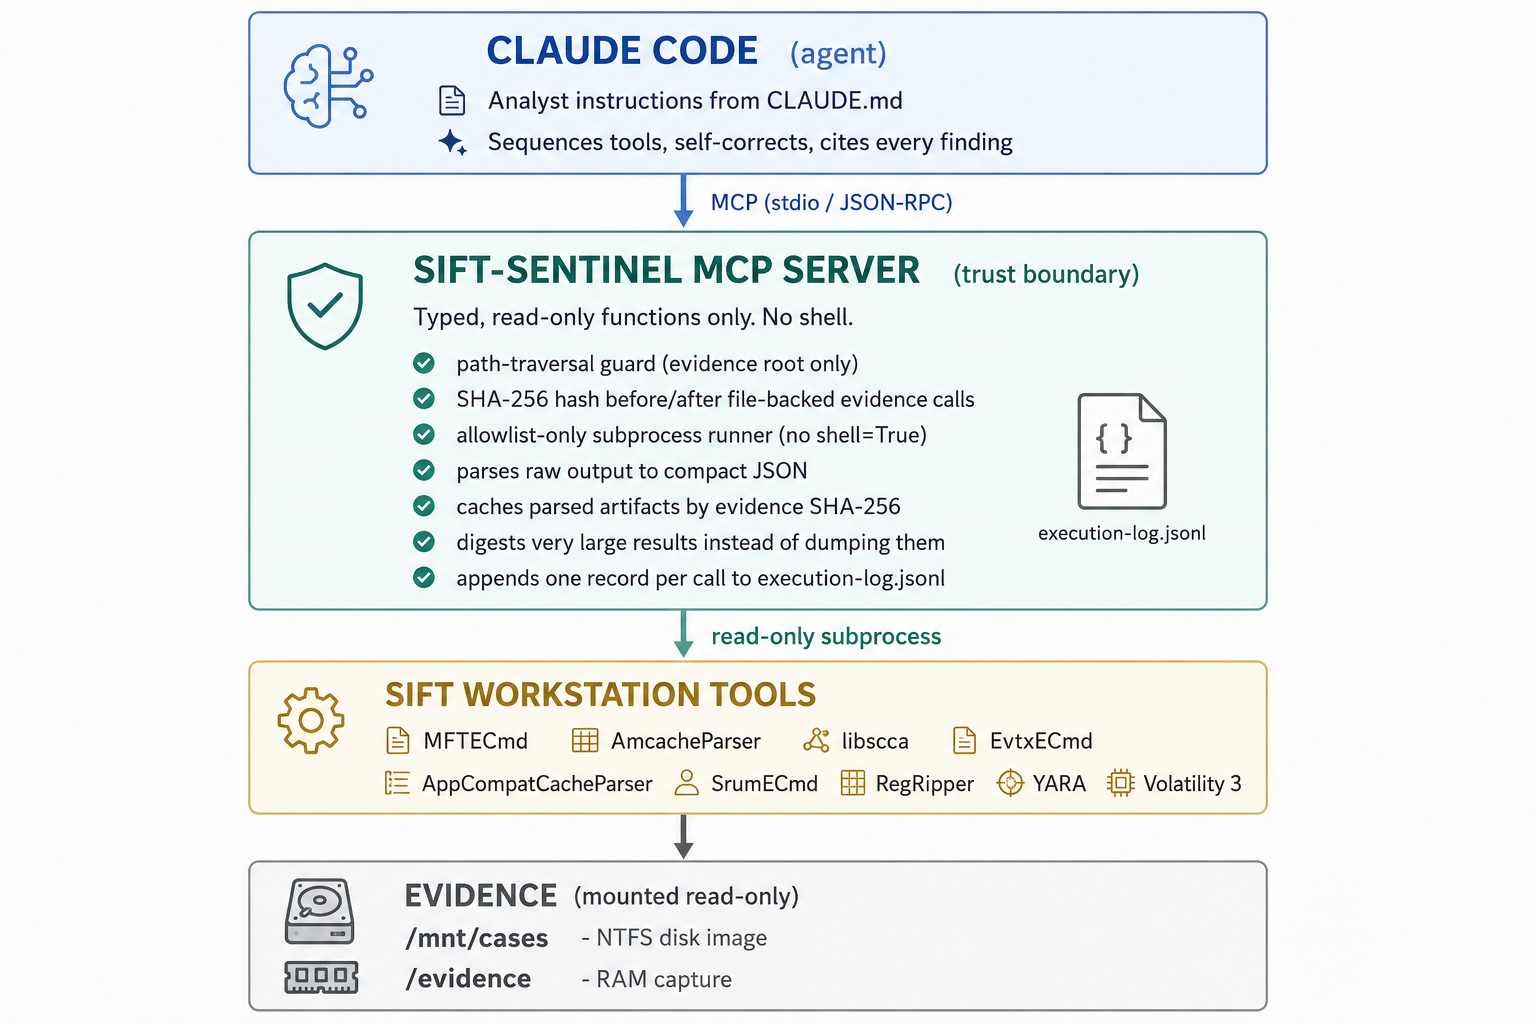
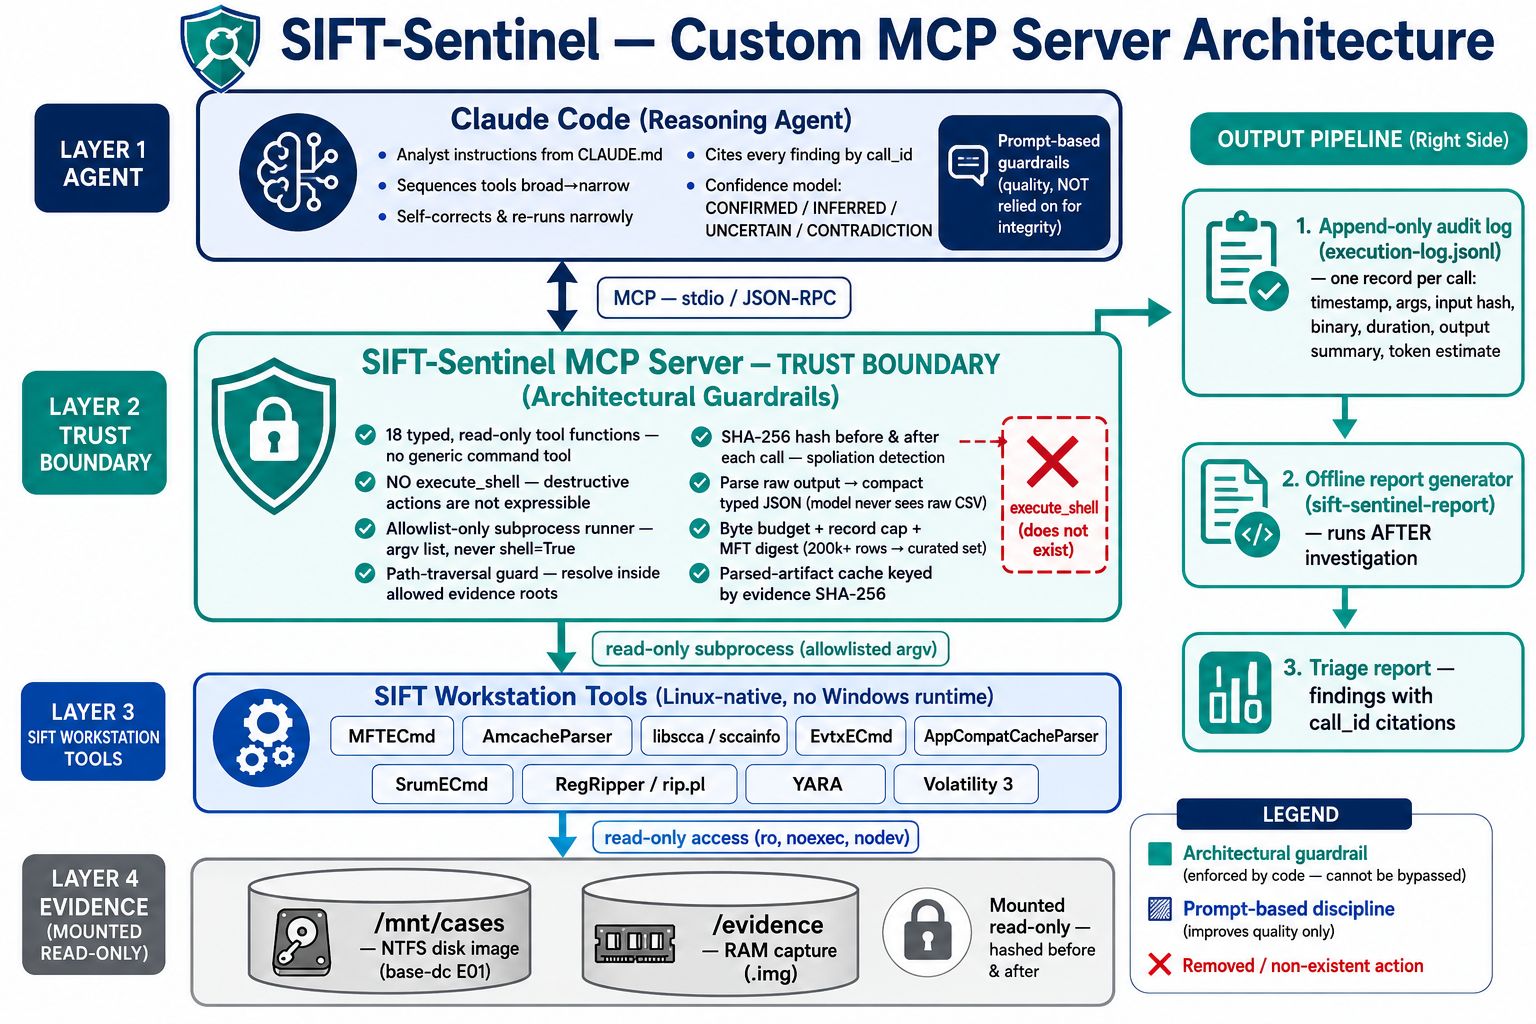
Updated architecture

diff --git a/docs/devpost_story.md b/docs/devpost_story.md
@@ -1,0 +1,187 @@
+# SIFT-Sentinel
+
+> An autonomous, evidence-safe incident-response analyst for the SANS SIFT
+> Workstation. Claude reasons over real disk and memory evidence, but *physically
+> cannot* spoliate that evidence or assert an uncited finding — because the
+> destructive and the unsupported are removed from its action space by
+> architecture, not by a prompt asking it to behave.
+
+---
+
+## Inspiration
+
+An AI-driven adversary can go from initial access to domain control in under
+eight minutes. The defender is usually still pulling up their toolkit.
+
+Protocol SIFT showed that connecting an agent to the SANS SIFT Workstation over
+MCP is viable — but it hallucinated more than is acceptable for evidence work,
+and a shell-capable agent pointed at original evidence is one careless command
+away from spoliation. In forensics, "the agent modified the disk image" is not a
+bug report, it is a destroyed chain of custody.
+
+We wanted to know how much of that could be fixed **structurally** rather than
+with prompt tuning, and whether evidence integrity could be made an
+*architectural guarantee* instead of a rule the model is politely asked to
+follow.
+
+---
+
+## What it does
+
+Point SIFT-Sentinel at a mounted Windows disk image and a RAM capture and ask it
+to triage. Claude Code, following the senior-analyst instructions in
+`CLAUDE.md`, drives a fixed set of **18 typed, read-only forensic tools** to:
+
+- **Work broad to narrow.** Execution evidence and the filesystem timeline
+  first, then pivot into memory, logons, and persistence.
+- **Corroborate across sources.** A finding is only marked `CONFIRMED` when at
+  least two independent artifacts agree (e.g. Prefetch + Amcache + MFT). One
+  source is an `INFERRED`, explicitly flagged.
+- **Surface contradictions.** When disk and memory disagree, it reports a
+  `CONTRADICTION` rather than quietly choosing the convenient answer.
+- **Self-correct.** If a gap remains it re-runs more narrowly — a tighter
+  `path_filter`, a specific `event_id` — instead of concluding early.
+- **Cite its work.** Every claim references the `call_id` of the tool execution
+  that produced it, recorded in an append-only audit log. If it can't cite a
+  call, it can't make the claim.
+
+There is no `execute_shell` tool. The agent cannot run a destructive command
+because no such function exists in its action space.
+
+On the SANS "SRL-2018 Compromised Enterprise Network" domain-controller image,
+it produced (full report with citations in
+[`audit/triage-report-base-dc-2026-06-14.md`](../audit/triage-report-base-dc-2026-06-14.md)):
+
+- **CONFIRMED** — F-Response remote-forensics agent (`subject_srv.exe`) and the
+  `Mnemosyne.sys` kernel driver staged in `C:\Windows` on 2018-09-06/07, each
+  corroborated by MFT **and** a 7045 service-install event, and correctly
+  attributed to IR/acquisition tooling rather than an adversary.
+- **INFERRED** — a sustained series of 163 failed logons (4625) from `BASE-HUNT$`
+  at `172.16.5.25` against the DC over ~27 hours.
+- **CONTRADICTION** — memory tooling returned zero processes with no error,
+  flagged as a *silent tooling failure* (a blind spot), not as evidence of a
+  clean host. The agent refused to call the host clean on the strength of a
+  result it could not trust.
+
+---
+
+## How we built it
+
+**Architecture: a Custom MCP Server as the trust boundary, with Claude Code as
+the reasoning agent.** Of the four hackathon approaches, the custom MCP server is
+the only one where evidence integrity is enforced by what code *exists* rather
+than by the model following instructions.
+
+The pipeline is `Claude Code → MCP (stdio/JSON-RPC) → SIFT-Sentinel server →
+read-only subprocess → SIFT tools → read-only evidence`, with an append-only
+audit log tapped off the server. See [`docs/architecture.png`](architecture.png).
+
+The design rests on a few deliberate decisions:
+
+- **Typed functions, not a generic command tool.** We expose
+  `extract_mft_timeline(...)`, not `run("mftecmd ...")`. The *server* decides
+  which binaries run and with which arguments — and owns output handling, which
+  is where the accuracy work happens.
+- **One allowlist-only runner, no shell.** Every external execution funnels
+  through a single function that takes an argument list, refuses any binary not
+  on the allowlist, and never uses `shell=True`. The destructive-command and
+  command-injection surface is one small, auditable chokepoint.
+- **Path-traversal guard + hashing.** Every tool-supplied path is resolved
+  inside an allowed evidence root, and each file-backed artifact is SHA-256
+  hashed before and after a call. A changed post-call hash is returned as an
+  integrity error and logged.
+- **Parse before the model sees anything.** A full `$MFT` is ~236k records and
+  ~60 MB of CSV. We parse to small typed records and digest huge results, so the
+  model reasons over signal instead of doing text-extraction over a truncated
+  dump — a known source of hallucination.
+- **Confidence as a data model, not a convention.** `CONFIRMED` requires ≥2
+  supporting `call_id`s in the data structure, so an unsupported confident claim
+  *cannot be represented*.
+- **Append-only JSONL audit log.** One immutable record per tool call —
+  timestamp, arguments, input hash, binary, duration, output summary, and an
+  estimated per-call token cost — and every finding cites its `call_id`. This is
+  both the chain-of-custody mechanism and the execution-log deliverable.
+
+Underlying tools are Linux-native (`sccainfo`/libscca for Prefetch, `rip.pl`/
+RegRipper for the registry, plus Zimmerman tools and Volatility 3), so the whole
+pipeline runs on a stock SIFT Workstation with no Windows runtime. The test
+suite runs with no real forensic tools and no API key, using captured fixtures
+and an injected fake runner.
+
+---
+
+## Challenges we ran into
+
+- **A row cap looked safe and still overran the transport.** We first capped
+  responses by record count. `extract_mft_timeline` then returned 236,778
+  records and the response spilled to a temp file anyway — because **record
+  *width*, not count, is what matters** (1,000 wide MFT rows are ~257 KB of
+  mostly uninteresting metadata). We only caught it by running against real
+  evidence. The fix was a hard byte budget plus an MFT digest that returns the
+  forensically-interesting records (executables in user-writable paths,
+  masquerading double extensions, ADS, deleted executables) instead of a
+  head-of-list dump.
+- **Logging "token usage" honestly from a read-only server.** A read-only MCP
+  server never sees the model's own prompt/completion tokens, and inventing them
+  would be the exact hallucination we set out to remove. We instead record the
+  one cost we *can* measure at the boundary — the deterministic, offline-
+  estimated token size of the response payload each call returns into the
+  agent's context.
+- **Keeping the read-only boundary intact meant rejecting convenient
+  shortcuts**, like letting the agent write its own report. Report generation is
+  a separate offline command that runs *after* the investigation over data that
+  already exists (the narrative + the audit log), so the action space stays
+  read-only.
+- **Memory forensics silently returning nothing.** Volatility returned zero
+  processes with no error on a valid image. The hard part wasn't the bug — it was
+  making the agent treat a silent zero as a *contradiction to investigate*, not a
+  clean bill of health.
+
+---
+
+## Accomplishments that we're proud of
+
+- Evidence integrity is **architectural, not aspirational**: there is no
+  destructive verb to misuse, and identical before/after hashes prove nothing
+  was modified.
+- The hallucination problem has a **structural** answer: `CONFIRMED` is
+  unrepresentable without two cited sources.
+- The agent caught and *reported* a silent tooling failure instead of declaring
+  the host clean — exactly the discipline a junior analyst usually lacks.
+- It runs end-to-end on a stock SIFT Workstation with no Windows runtime, no
+  extra service, and no API key to manage.
+
+---
+
+## What we learned
+
+The largest accuracy improvements were **architectural, not prompt-based**.
+Structured parsing and digesting of large results removed whole categories of
+hallucination before any prompt tuning, and made the claim that "the destructive
+tool simply does not exist" one we can actually stand behind. Asking a model to
+be careful is a hope; removing the dangerous action from its action space is a
+guarantee. We also learned that you only find the failures that matter by
+running against *real* evidence — the row-cap blowup and the silent memory
+failure were both invisible against fixtures.
+
+---
+
+## What's next for SIFT-Sentinel
+
+- **Fix and re-run memory forensics.** Resolve the Volatility symbol/profile
+  issue so `mem_pslist`/`mem_netscan`/`mem_malfind`/`mem_svcscan` produce real
+  output — the single largest open gap in the current run.
+- **Publish a populated accuracy report.** Commit a ground-truth answer key for
+  the SRL-2018 dataset and run `benchmark/score.py` head-to-head against the
+  Protocol SIFT baseline, reporting concrete precision/recall, false positives,
+  missed artifacts, and hallucination rate.
+- **Expand the tool surface** with $UsnJrnl and $LogFile parsing, browser and
+  LNK/Jump List artifacts, and a YARA rules pack tuned for live-response triage —
+  each added the same way: wrapper, typed MCP function, allowlist entry.
+- **Tighten cross-source correlation**, automatically promoting an `INFERRED`
+  finding to `CONFIRMED` when a later tool call supplies the second source, and
+  widening the super-timeline to merge memory artifacts alongside disk.
+- **Harden auditability** with per-call token totals rolled up into the offline
+  report, and an optional signed/hash-chained audit log for tamper-evidence
+  beyond append-only.
+```